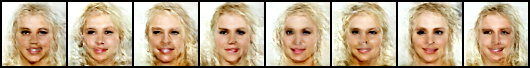
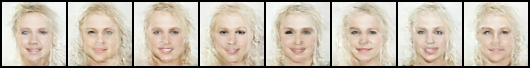
normalize

diff --git a/task2_interpolation.py b/task2_interpolation.py
@@ -91,20 +91,5 @@ if __name__ == "__main__":
         print(predict_x.size())
         for k in range(len(predict_x)): interpolation_result.append(predict_x[k])
 
-    # interpolation_result = torch.Tensor(interpolation_result).cuda()
-    # print('interpolation_result',interpolation_result.size())
-    # interpolation_result.resize_((N*len(face_pair), 3, 64, 64))
-    save_image(interpolation_result, 'task2_interpolation.png')
-    # results = []
-    # for i in range(8):
-    #     y_manipulation = y
-    #     y_manipulation[0][9] = i * 0.125
-    #     y_manipulation[0][39] = i * 0.125
-    #     with torch.no_grad():
-    #         z, bpd, y_logits = model(x,y_manipulation)  # return: z, bpd, y_logits
-    #         predict_x = model(y_onehot=y_manipulation, z=z, temperature=0.5, reverse=True)
-    #         results.append(predict_x[0])
-    # save_image(results, 'manipulation.png')
-    #
-    # print('y=',y)
-    # save_image(x, 'origin_x.png')
+
+    save_image(interpolation_result, 'task2_interpolation.png', normalize=True)

diff --git a/task2_Conditional_face.py b/task2_Conditional_face.py
@@ -72,4 +72,4 @@ if __name__ == "__main__":
 			y[attribute] = yes
 			predict_x = model(y_onehot=y.cuda(), z=z.cuda(), temperature=1, reverse=True)
 			generate_x_list = torch.cat((generate_x_list,predict_x), 0)
-	save_image(generate_x_list, 'images/task2_Conditional_face.png')
+	save_image(generate_x_list, 'images/task2_Conditional_face.png',normalize=True)

diff --git a/task2_Attribute_manipulation.py b/task2_Attribute_manipulation.py
@@ -120,4 +120,4 @@ if __name__ == "__main__":
 		### generate_x_list size: torch.Size([N_attribute*N_interpolation, 3, 64, 64])
 
 
-		save_image(generate_x_list, 'images/task2_Attribute_manipulation.png')
+		save_image(generate_x_list, 'images/task2_Attribute_manipulation.png', normalize=True)
